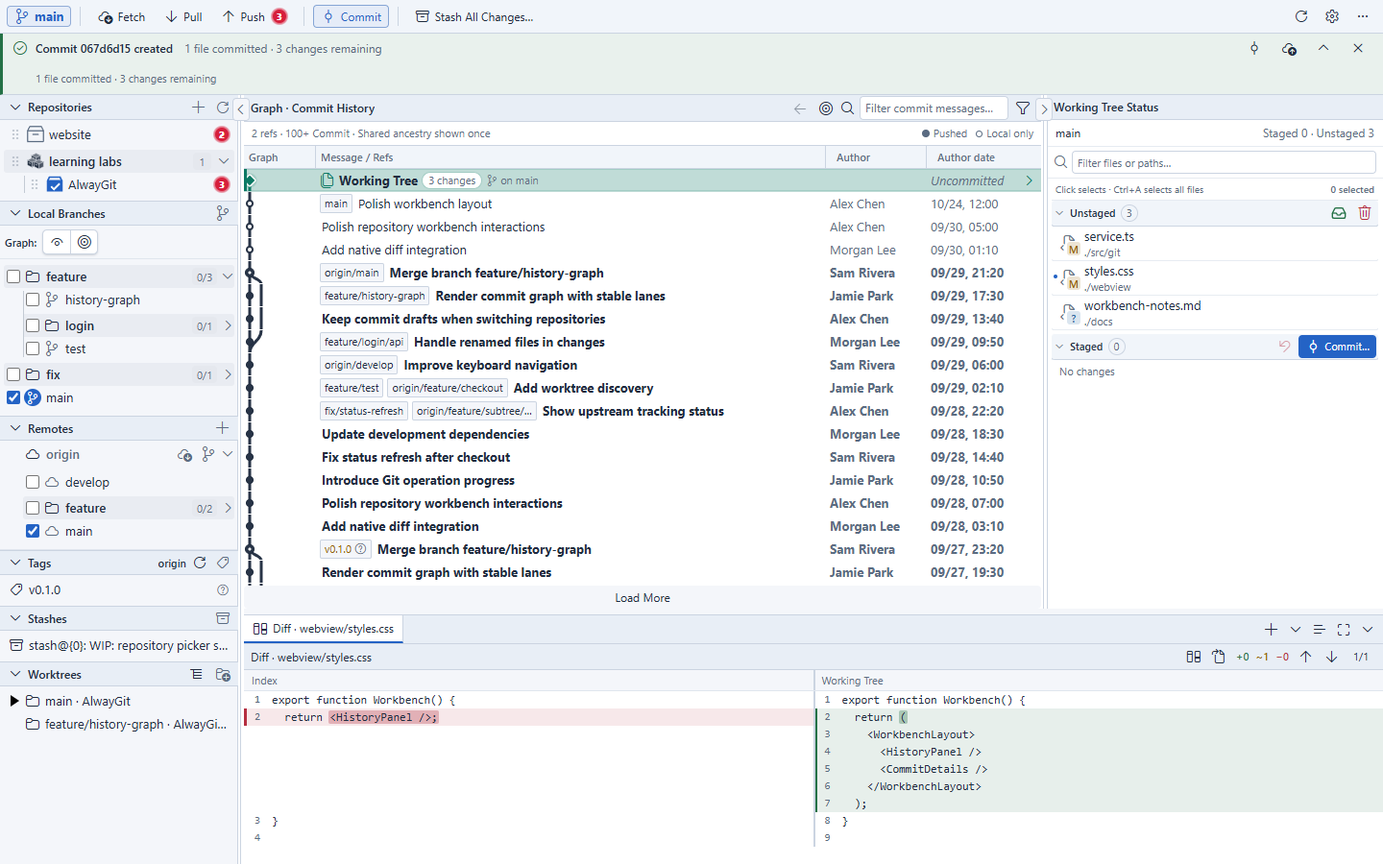
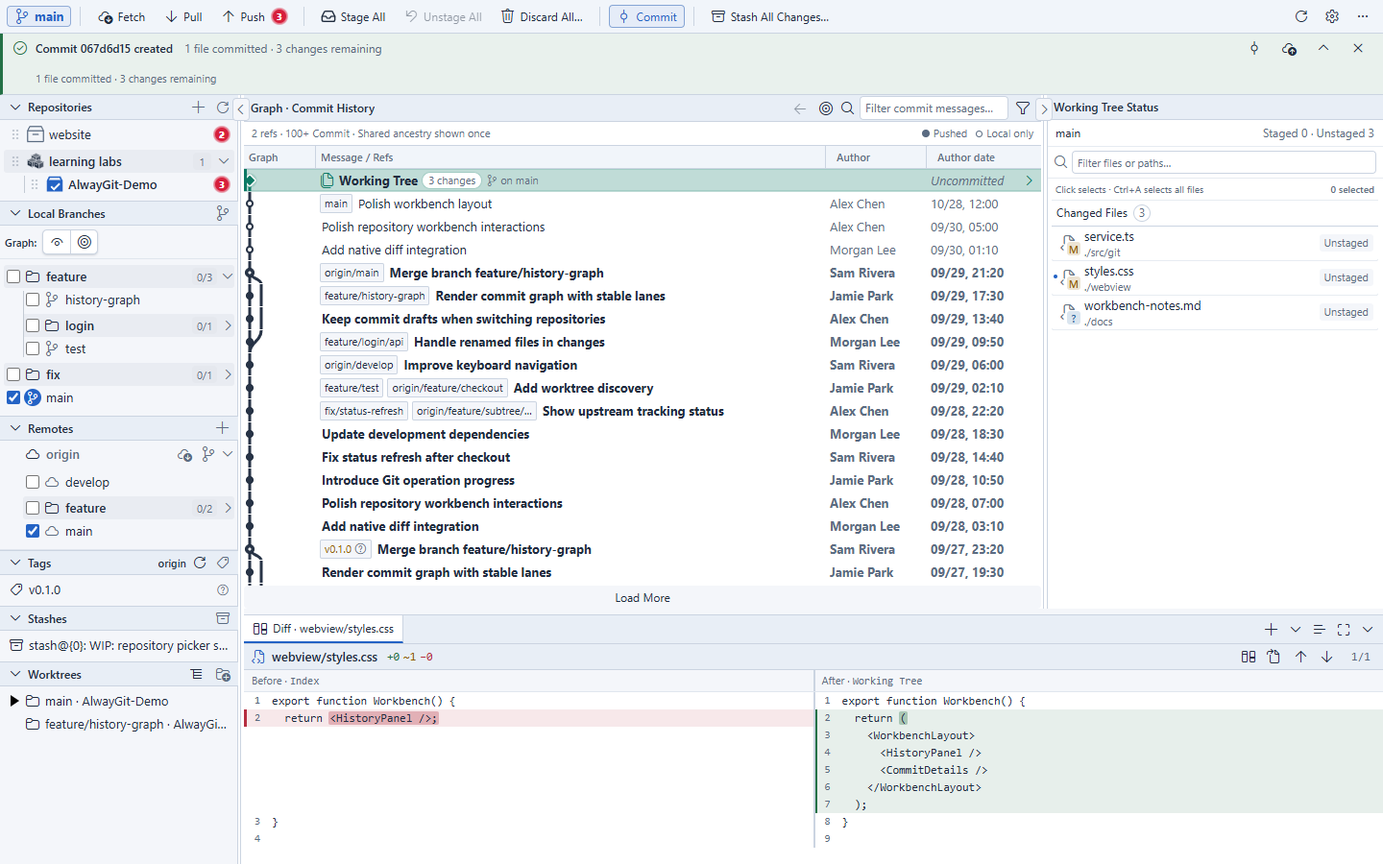
docs: 同步统一文件列表与近期界面的手册图文

diff --git a/docs/USER_MANUAL.en.md b/docs/USER_MANUAL.en.md
@@ -8,7 +8,7 @@ Select More actions → Help & Guide, with its question-mark icon, in the upper-
 
 <a id="screenshot-notes"></a>
 
-**About the screenshots:** Shared figures were captured on 2026-10-24 from the 1.8.0 source build. They show the actual Workbench components with an English interface, the default theme's white appearance on a light host, and sample repository data; the language page previews Chinese. The main sample repository is now named `AlwayGit-Demo`; the existing screenshots have not yet been updated and still show `AlwayGit` and the original sample paths. The repositories, authors, Commit IDs, history, and operation states are constructed demo data, not records from the real AlwayGit project. Sample RPC responses supply repository, Git-operation, and terminal states, so these images do not establish real-host validation of remotes, authentication, or native Git operations. The narrow sidebar figure demonstrates region navigation at that viewport size. Images exclude native VS Code chrome, native confirmation dialogs, and system folder pickers. The toolbar file action is now named Open File in VS Code; its icon position remains as shown in the older figures. Diff heading styles, statistics placement, and floating boundary notices follow the current instructions; older figures have not been refreshed. Your project names, paths, and Commit IDs may differ. See [Validation](VALIDATION.en.md#manual-screenshots) for the capture process and verification scope.
+**About the screenshots:** Both editions share the same images. Figures 03–07, 09, 11, 13–14, 18, 23, 29, 38, 40–47, and 49–50 were captured on 2026-10-28 from the 1.8.0 source build (UI baseline `67d3097`), reflecting the default unified list, current selection states, and Diff styles. Figure 49 explicitly demonstrates optional split mode; Figure 50 shows the navigation boundary notice. Other figures retain their 2026-10-24 source. Some still show the old sample name `AlwayGit`, original paths, and surrounding toolbar; the main sample repository is now `AlwayGit-Demo`. These differences do not change the dialog operations illustrated. Images show actual Workbench components with an English interface, the default theme on a light host, and sample data; the language page previews Chinese. Repository, author, Commit ID, history, Git-operation, and terminal states come from isolated sample RPC data, not real project records or validation of real remotes, authentication, Git, or terminal execution. The narrow sidebar figure demonstrates region navigation at that viewport size. Images exclude native VS Code chrome, native confirmations, and system folder pickers. Your names, paths, Commit IDs, and saved interface preferences may differ. See [Validation](VALIDATION.en.md#manual-screenshots) for the capture process and verification scope.
 
 ## Read by task
 
@@ -31,9 +31,9 @@ Select More actions → Help & Guide, with its question-mark icon, in the upper-
 Use a practice repository with existing Git history. Confirm the current branch and finish any active Git operation first. For installation, see [Install and launch](#section-01-02).
 
 1. Open the AlwayGit launch sidebar and select **Open Workbench**. Use **Add…** in Repositories to add a repository, then double-click it or press Enter to enter it.
-2. Edit and save a file in VS Code. Return to the workbench, select **Working Tree**, then select the file under Unstaged to inspect its Diff.
-3. Right-click the file you want to commit and choose **Stage**. Select it under Staged and check the actual content prepared for the commit.
-4. Select **Commit…** to the right of Unstage in the Staged heading (or Commit in the toolbar), enter a Commit Message in the dialog, then select **Commit**. Only Staged content is committed; other unstaged changes remain in the Working Tree.
+2. Edit and save a file in VS Code. Return to the workbench, select **Working Tree**, then select a file marked **Unstaged** in the default unified list to inspect its Diff.
+3. Right-click the file you want to commit and choose **Stage**. Find its **Staged** entry in the unified list and check the actual content prepared for the commit. A remaining Unstaged entry for the same file represents additional changes on disk.
+4. Select **Commit** in the top toolbar, enter a Commit Message in the dialog, then select **Commit**. Ordinary Commit selects all Staged files initially; you can deselect files. Other unstaged changes remain in the Working Tree. The optional split mode also provides **Commit…** in the Staged heading.
 5. Select **View Commit** in the result banner, or open the new commit in History. Verify its message, file list, and any remaining changes.
 
 **Result:** History contains a new commit with the Staged content you reviewed. To share your local commit, follow [Remote collaboration](#chapter-08) and Push it to a remote.
@@ -159,7 +159,7 @@ Help follows the Workbench language. Both manuals and their images are included 
 
 ## Working Tree and Commits
 
-Staged is the most important place to check before committing. A file appearing as both unstaged and staged is not a contradiction: the Index contains one version, while the file on disk has changed again since it was staged.
+Staged is the most important place to check before committing. The default unified list labels each entry Unstaged or Staged; split mode displays separate groups. A file appearing as both unstaged and staged is not a contradiction: the Index contains one version, while the file on disk has changed again since it was staged.
 
 | Status or group | Meaning | Recommended action |
 | --- | --- | --- |
@@ -173,11 +173,13 @@ Staged is the most important place to check before committing. A file appearing 
 
 ### Choose split or unified file lists
 
-Settings → Interface → File List uses the unified changed-files list by default and also offers the split list. The unified list places unstaged entries before staged entries and sorts each area by file name; conflicts come first. Each version has its own row and Diff. Stage All, Unstage All and Discard All in the top toolbar always operate on the complete repository, independently of filtering or selection. Discard All discards only unstaged changes and preserves staged content.
+Settings → Interface → File List uses the unified changed-files list by default and also offers the split list. This default applies when no display mode has been saved; existing split or unified preferences remain in effect until changed and applied here. The unified list places unstaged entries before staged entries and sorts each area by file name; conflicts come first. Each version has its own row and Diff. Stage All, Unstage All and Discard All in the top toolbar always operate on the complete repository, independently of filtering or selection. Discard All discards only unstaged changes and preserves staged content.
 
 Split-mode heading actions use the current file filter; unified-mode toolbar bulk actions always use the whole repository. Use file context menus for selected files. File spacing is separate from History row density.
 
-![Figure 05 File list settings with split and unified modes and independent file spacing](images/user-manual/figure-05.png)
+![Figure 05 File list settings with unified mode selected by default, optional split mode, and independent file spacing](images/user-manual/figure-05.png)
+
+![Figure 49 Optional split-mode file area with separate Unstaged and Staged groups and group-heading actions](images/user-manual/figure-49.png)
 
 <a id="section-03-01"></a>
 
@@ -185,7 +187,7 @@ Split-mode heading actions use the current file filter; unified-mode toolbar bul
 
 **Prerequisite:** You have saved your changes in the editor.
 
-1. Click Working Tree, then click the file in the appropriate group.
+1. Click Working Tree, then choose the file entry by its Unstaged or Staged label. In split mode, choose the file in the corresponding group.
 2. Check the file and comparison targets in the Diff title at the bottom. In particular, confirm whether you are viewing Staged or Unstaged changes.
 3. Use the previous and next arrows to review each change block, noting the counts of additions, modifications, and deletions.
 4. To edit the full contents of a text file, use Open File in VS Code to open the actual file in the current Working Tree. This also applies when viewing a historical Commit or comparing two Commits: the file belongs to the current checkout and may differ from the preview. Save it, then return to the workbench and check again. A missing file produces an explicit message; it is neither created nor replaced by a Diff view. Images and other binary files are view-only in the AlwayGit preview.
@@ -196,7 +198,7 @@ Split-mode heading actions use the current file filter; unified-mode toolbar bul
 
 **Troubleshooting:** If the content has not updated, first confirm that you saved it in the editor, then use Refresh. If the problem persists, check the output and error details.
 
-![Figure 07 Working Tree filtered by webview with an unstaged file and its Diff selected](images/user-manual/figure-07.png)
+![Figure 07 Default unified list filtered by webview, with an Unstaged file and its Before / After Diff sources](images/user-manual/figure-07.png)
 
 <a id="section-03-02"></a>
 
@@ -204,16 +206,16 @@ Split-mode heading actions use the current file filter; unified-mode toolbar bul
 
 **Prerequisite:** No unresolved conflicts remain, and you know which files should be included in the next commit.
 
-1. Click the target file under Unstaged. Use Ctrl/Cmd or Shift to select multiple files.
+1. Click the target entry marked Unstaged in the unified list, or enter the Unstaged group in split mode. Use Ctrl/Cmd or Shift to select multiple files.
 2. Right-click an already selected file and choose Stage. Right-clicking an unselected file first changes the selection to that file alone.
-3. Check the result under Staged. If you selected the wrong file, right-click it under Staged and choose Unstage.
-4. If you truly intend to act on the entire group, use Stage All or Unstage All in the group heading and verify the count in the confirmation.
+3. Select the Staged entry to check the result. If you selected the wrong file, right-click that entry and choose Unstage.
+4. For bulk actions in unified mode, use Stage All or Unstage All in the top toolbar; these always affect the complete repository. In split mode, use the corresponding group heading: without a filter it affects the whole group, and with a filter it affects matching files. Verify the count in the confirmation.
 
 **Result:** Staged contains only the changes needed for this commit. After Unstage, the changes remain in the Working Tree.
 
 **Act on a change block:** A compact 32px gutter between the Unstaged text Diff panes contains « to stage that Working Tree block into the Index. The left-side » opens a file/range-bound discard confirmation; confirming restores only that Working Tree block from the Index, preserving staged content and other blocks. Discarding a complete untracked addition deletes that file; a deleted file can be restored. Staged Diff uses » to restore that Index block from HEAD and unstage it. Line-number width follows the number of digits, without a reserved action column. Buttons anchor to actual changes; hover or keyboard focus shows only the action name; changes keep their red/green backgrounds without additional blue frames. Each contiguous change block is independent and matches navigation; nearby changes are no longer grouped by Git context. Arbitrary line selection is unavailable. Staging and unstaging preserve Working Tree bytes and other blocks. Recheck Staged after the action. Refresh expired previews; unsupported files, conversion filters, renames, and active Git operations use whole-file actions.
 
-**Caution:** File menus and group actions still operate on whole files. Search file names or relative paths below the Working Tree summary, ignoring case; use the clear icon to restore all files. In split mode, group actions apply to the entire group without a filter, or only matching paths with a filter. Tooltips and confirmations show the scope, independently of the current selection. Use a file’s context menu to act on selected items. Ctrl/Cmd+A selects only visible files. Filtering does not change the actual Index; Ordinary Commit selects all staged files by default; you may deselect files in the checklist.
+**Caution:** File menus and list bulk actions still operate on whole files. Filtering does not narrow the repository scope of the unified toolbar actions. Search file names or relative paths below the Working Tree summary, ignoring case; use the clear icon to restore all files. In split mode, group actions apply to the entire group without a filter, or only matching paths with a filter. Tooltips and confirmations show the scope, independently of the current selection. Use a file’s context menu to act on selected items. Ctrl/Cmd+A selects only visible files. Filtering does not change the actual Index; Ordinary Commit selects all staged files by default; you may deselect files in the checklist.
 
 <a id="section-03-03"></a>
 
@@ -237,7 +239,7 @@ Split-mode heading actions use the current file filter; unified-mode toolbar bul
 **Prerequisite:** At least one file is Staged, and you have prepared a commit message.
 
 1. Check each Staged file, including deletions and renames.
-2. Select Commit in the toolbar or Commit… in the Staged heading and enter a Commit Message in the dialog. Confirm the repository, branch, and file checklist (all staged files are selected by default; you may deselect files), then select Commit or press Ctrl/Cmd+Enter. Enter inserts a new line.
+2. Select Commit in the toolbar (split mode also offers Commit… in the Staged heading) and enter a Commit Message in the dialog. Confirm the repository, branch, and file checklist (all staged files are selected by default; you may deselect files), then select Commit or press Ctrl/Cmd+Enter. Enter inserts a new line.
 3. Click the new commit in History to verify the actual file list. Then return to Working Tree and check the remaining uncommitted changes.
 4. If Unstaged changes remain, continue editing or staging them for a separate commit.
 
@@ -284,9 +286,9 @@ In the unified list, Commit Selected… opens a checklist containing only the in
 
 **Prerequisite:** You have confirmed that you do not need the selected changes. Any content you need has been committed, saved in a Stash, or backed up elsewhere.
 
-1. Select the target files under Unstaged, right-click, and choose Discard….
+1. Select the target entries marked Unstaged, right-click, and choose Discard….
 2. Read the path list and discard explanation in the confirmation popover, checking each item. If a native VS Code Proceed confirmation follows, check again before continuing.
-3. Use Discard All… in the heading only when you intend to discard all Unstaged changes. Alternatively, right-click the graph's Working Tree node and choose Discard All Unstaged Changes… without opening the file list. Node actions ignore right-side path filters and selection.
+3. Use Discard All in the unified-mode top toolbar only when you intend to discard every Unstaged change in the repository. The split-mode Unstaged heading action affects the current filter matches. Alternatively, right-click the graph's Working Tree node and choose Discard All Unstaged Changes… without opening the file list. Node actions ignore right-side path filters and selection.
 4. After the operation, check the remaining Unstaged and Staged changes to confirm the scope of its effect.
 
 **Result:** The confirmed unstaged changes have been discarded. Content from the same file that was already in the Index should remain intact.
@@ -419,9 +421,11 @@ Pale red backgrounds and red stripes to the left of line numbers mark deletions;
 
 **Result:** Choose to inspect the entire Commit or the current file block by block. Adjacent changed lines form one contiguous block.
 
-**Caution:** Entire Commit includes files hidden by the path filter. The Diff title shows the actual path, and the file list identifies a hidden current file. Binary files and files without text change blocks are skipped but remain available for manual inspection. Read failures stop navigation and show an error. Text statistics and navigation cover the complete file, including changes after line 4000. Scroll to inspect all context. Resource limits produce an error rather than a partial comparison or a misleading zero-change count. Working Tree, Stash, and Commit comparisons still cycle within the current file.
+**Caution:** Entire Commit includes files hidden by the path filter. The Diff title shows the actual path, and the file list identifies a hidden current file. Binary files and files without text change blocks are skipped but remain available for manual inspection. Read failures stop navigation and show an error. Text statistics and navigation cover the complete file, including changes after line 4000. Scroll to inspect all context. Resource limits produce an error rather than a partial comparison or a misleading zero-change count. Working Tree, Stash, and Commit comparisons navigate within the current file, using the same notice-then-repeat boundary rule and immediate relocation for a single block.
 
 ![Figure 38 Diff settings with font, line height, code preview, and change navigation scope](images/user-manual/figure-38.png)
+
+![Figure 50 Floating notice at the first change: run Previous again to reach the last change in this Commit](images/user-manual/figure-50.png)
 
 <a id="file-history"></a>
 
@@ -972,7 +976,7 @@ Click list whitespace or press Esc to clear the blue selection while retaining a
 
 **Caution:** Groups organize the navigation only. They do not move directories on disk or combine the contents of different repositories.
 
-![Figure 06 The sample repository in learning labs (shown as AlwayGit in this older figure, now named AlwayGit-Demo) and the separate website repository entry](images/user-manual/figure-06.png)
+![Figure 06 AlwayGit-Demo in learning labs with its current-repository marker and blue action selection, plus the separate website repository entry](images/user-manual/figure-06.png)
 
 <a id="section-02-03"></a>
 
@@ -1107,7 +1111,7 @@ Double-click a terminal tab to rename it. The toolbar clears the display and off
 
 1. Click the gear in the upper-right corner to open settings.
 2. Choose a page in the General, Interface, Commit Graph, or Advanced category. The settings dialog keeps the same dimensions when switching categories. Long pages scroll in the right content area while the title and footer remain fixed. In smaller windows the dialog fits the available space, and category navigation scrolls independently.
-3. Interface → Text & density controls the interface font size and commit list density. Interface → File list controls split or unified display and file spacing. Interface → Diff groups the Diff font size, line height, row separators (off by default), and navigation scope with a code preview. Expand Detailed rules for navigation exceptions. Commit Graph → Display independently controls commit row separators and alternating row backgrounds, both off by default; selection, hover, and Working Tree indicators remain visible.
+3. Interface → Text & density controls the interface font size and commit list density. Interface → File list controls the default unified or optional split display and file spacing. Interface → Diff groups the Diff font size, line height, row separators (off by default), and navigation scope with a code preview. Expand Detailed rules for navigation exceptions. Commit Graph → Display independently controls commit row separators and alternating row backgrounds, both off by default; selection, hover, and Working Tree indicators remain visible.
 4. Click Apply to save. To discard unapplied changes, click Cancel, close settings, or press Esc.
 
 **Result:** Language, theme, colors, font sizes, density, shortcuts and reading preferences are saved in user settings and shared with other workbench windows in the same configuration environment. Cancel rolls back only this panel’s unapplied preview. Panel dimensions, browsing state and commit drafts are restored separately.

diff --git a/docs/VALIDATION.en.md b/docs/VALIDATION.en.md
@@ -71,7 +71,7 @@ On 2026-10-05, with user permission, real-window validation ran on local VS Code
 
 First identify affected operation scenarios. Changes to surrounding toolbars, icons, or spacing usually require only updated entry text and a screenshot-difference note. When screenshots really need updating, run `npm run build` once, then `node scripts/capture-manual.mjs`. The script uses a headless browser and real workbench components from the current build. Isolated sample fixtures answer every RPC; no Git, Shell, native editor, window action, or remote connection occurs. It fixes the default theme (a white interface following a light host), language, font size, viewport, time zone, and sample time. Each scenario has an independent browser context. Dialogs are cropped to their bounds for readable text; narrow-sidebar pictures demonstrate component adaptation and do not constitute real VS Code container acceptance.
 
-Previews go to ignored `artifacts/manual-capture/`. Use `--only=NN` to view one scenario or `--from=NN` to resume from a scenario; neither changes manual images. For a partial update, use `--only=NN`, inspect the result, and copy only the corresponding PNG to `docs/images/user-manual/`, retaining a clear operation region where possible. Do not copy everyday acceptance previews into the maintained directory. Only for an explicit user request or a dedicated manual redesign, use `node scripts/capture-manual.mjs --write` for full capture. Maintained images are replaced only after every scenario succeeds; partial capture cannot use `--write`. Scenario definitions live in this script; do not manually retain old image variants.
+Previews go to ignored `artifacts/manual-capture/`. Use `--only=NN` for one scenario, `--only=03,05,07` for several specific scenarios, or `--from=NN` to resume from a scenario; none changes manual images. Ordinary scenes leave the product's file-list default intact. Figure 49 explicitly uses split mode and captures the file-operation area; Figure 50 captures the Diff with its boundary notice. For a partial update, complete and inspect all selected scenes, then copy only the corresponding PNGs to `docs/images/user-manual/`, retaining clear operation regions where possible. Do not copy everyday acceptance previews into the maintained directory. Only for an explicit user request or a dedicated manual redesign, use `node scripts/capture-manual.mjs --write` for full capture. Maintained images are replaced only after every scenario succeeds; partial capture cannot use `--write`. Scenario definitions live in this script; do not manually retain old image variants.
 
 Both manuals share images, section anchors, and screenshot-source notes. New images must be referenced by both editions. When updating, check each affected image's actual entry point, object, count, direction, and accompanying text; delete invalid or unreferenced resources and retain real PNG encoding. Source notes record the actual capture date and source version. Partial replacements record new provenance by image number, retain the old source for other images, and note differences in surrounding UI. Demo feedback is not evidence of real Git or terminal execution. Native VS Code shell screenshots or host-behavior acceptance require separate visible-window permission under the project rules.
 
@@ -140,7 +140,7 @@ node scripts/package.mjs
 
 Packaging detects the current platform, passes `--target` to VSCE, and builds through `vscode:prepublish`; no repeated build is needed immediately beforehand. It passes `--allow-star-activation` to explicitly accept the existing `*` startup activation and avoid recurring manual confirmation; this neither optimizes startup performance nor changes activation timing. You may specify `node scripts/package.mjs --target linux-arm64`, but the target must match the build machine; this does not cross-compile node-pty. Linux requires glibc plus Python, make, and a C++ compiler; source builds use Node.js 24.
 
-The `.vscodeignore` release allowlist includes only the extension manifest/localization, README, icon, runtime programs, and Webview assets. Raw `docs/`, repository CI configuration, source maps, tests, and debug symbols are excluded. Complete bilingual offline manuals and all 40 screenshots remain in the Webview build, without a second copy of the original documentation images. Packaging generates a temporary README with relative documentation and language links rewritten to online GitHub `main` addresses. VSCE uses this copy while preserving the existing statistics SVG; the copy is deleted at completion. Repository READMEs retain relative links.
+The `.vscodeignore` release allowlist includes only the extension manifest/localization, README, icon, runtime programs, and Webview assets. Raw `docs/`, repository CI configuration, source maps, tests, and debug symbols are excluded. Complete bilingual offline manuals and all maintained screenshots remain in the Webview build, without a second copy of the original documentation images. Packaging generates a temporary README with relative documentation and language links rewritten to online GitHub `main` addresses. VSCE uses this copy while preserving the existing statistics SVG; the copy is deleted at completion. Repository READMEs retain relative links.
 
 Builds clean old PTY directories and copy only node-pty runtime JS, licenses, and one complete native layout for the current target. A complete `build/Release` takes priority; otherwise target prebuilds are used, with either layout normalized to `prebuilds/<target>`. Windows retains ConPTY/WinPTY compatibility paths, helper processes, and Workers; Linux/macOS retain `pty.node` and `spawn-helper`. PDBs, other architectures, tests, type declarations, build scripts, and duplicate third-party binaries are excluded. After packaging, before replacing the fixed package, `verify-package.mjs` rejects unexpected files, duplicate entries, and missing required files, then extracts and checks extension identity, version, target platform, workspace host, and askpass execution permissions. It runs a real terminal lifecycle check in a temporary directory without relying on source node_modules. Only success replaces `artifacts/alwaygit.vsix`; the previous `artifacts/alwaygit-previous.vsix` and `artifacts/alwaygit-<版本>-<平台>.vsix` (version/platform placeholders) are retained. Failure preserves the original fixed package. Verification temporary directories are deleted at completion.
 
@@ -262,6 +262,7 @@ The table retains checks actually performed for different versions. Old results 
 
 | Evidence scope | Date / version | Recorded results and limitations |
 | --- | --- | --- |
+| Manual refresh for default unified lists and recent UI changes | 2026-10-28 / source 1.8.0 (UI baseline 67d3097) | Recaptured 21 affected figures and added two operation-region images for optional split mode and the Diff boundary notice. Both manuals and offline help share 50 PNGs; the README panorama updates through its existing image reference. Updated default-list workflows, Stage/Unstage/Discard/Commit entries and filter scopes, and corrected the English specification default. The other 27 figures retain their original source. Ordinary capture scenes no longer override the product default; multiple scenes can be selected together. Help acceptance now waits for the actual file row to support unified mode. Reviewed all 23 captured images. Three help-content tests, capture/help script syntax, the initial production build, final Webview build, and headless Help checks passed, including every image in both languages, offline CSP, chapter/task navigation, search, narrow layouts, and focus restoration. Checked 281 local file/image/anchor references across 12 Markdown files and diff formatting. Sample RPC figures do not establish real Git, remote authentication, or native-host acceptance. No full suite, visible-window tests, VSIX packaging, installation, or remote push |
 | Bilingual manuals, task navigation, and complete screenshot refresh | 2026-10-24 / source 1.8.0 | Recaptured the existing 40 figures and added eight for advanced-search drafts, file history, full commit trees, branch comparison, Reflog, Worktree overview, interactive Rebase, and Git LFS. Both manuals and offline help share all 48 PNGs; the README overview is current and statistics cards are at the bottom. Types, 1847 bilingual resources, three help-content tests, six release-statistics tests, the final production build, and headless Help checks passed. The Help checks decode every image in both languages under offline CSP and cover chapter/task navigation, search, narrow layouts, and focus return. The old focus assertion ran while compact navigation hid its invoking region; restoring the original viewport fixed the test without changing product behavior. Checked 277 local links/images/anchors across 12 Markdown documents and diff formatting. Figures use actual UI components with isolated sample RPC state, without establishing real Git, remote authentication, or native VS Code container acceptance. No local full suite, VSIX packaging, or extension installation; release checks and platform packages are validated by the Tag workflow |
 | Hunk staging, branch comparison, Reflog, interactive Rebase, and Worktree overview | 2026-10-18 / source 1.7.0 | Types, 1685 bilingual resources, and focused real-Git/protocol/document-preview/help tests passed. Real Git covers patch/index isolation, fixed-reference comparisons, recovery branches, Worktree status, and all six Rebase actions, conflict continue/abort, empty commits, and hook failures. Independent extension compilation and the Webview production build passed; eight headless suites passed: the five new features, File History, Diff, and Refresh. The old Diff assertion conflicted with existing same-file statistics preservation; updated assertions passed alongside Refresh. Checked 219 local links/images/anchors across 12 Markdown files and diff formatting. Full build remains blocked by the host’s incomplete node-pty linux-arm64 runtime. No dependency installation, full suite, desktop acceptance, packaging, or extension installation; actual Windows/Electron and signing environments remain unverified |
 | File history and file-filtered graph | 2026-10-18 / source 1.6.0 | Types, 1563 bilingual resources, extension/terminal/launcher code compilation, and frontend build passed; 125 focused file-history/state/helper/help checks passed, plus protocol, graph-row, and history-item checks. Real Git covers 151 file records across batches/pages, rename/merge sides, deletion/recreation, pathname reuse, old-path anchors, unusual paths, remote reachability, and read-only cancellation. Headless file-history/files/help suites passed; Back and HEAD location passed separately. The full History suite remains blocked by the existing Demo Detached HEAD permission check; bulk remote-deletion testing requires Git 2.46 while this host has 2.43.0. After integrating remote build validation, full build stopped on the host’s incomplete node-pty linux-arm64 runtime; code and frontend compiled separately with existing dependencies. No full suite, desktop acceptance, packaging, or installation |

diff --git a/docs/WORKBENCH_SPEC.en.md b/docs/WORKBENCH_SPEC.en.md
@@ -34,7 +34,7 @@ Settings is an approximately 760 px dialog with General / Interface / Graph / Ad
 
 Interface type supports 12–16 px, Diff 11–18 px (default 12), and history rows 22/24/28 px. File padding defaults to 1 px per side, with 0/1/3/5 px presets and 0–8 px custom values. File names use 1.4 line height; parent paths use 11 px type with 1.2 line height, separated by a 1 px gap without vertical shrinking. At 13 px, default two-line file rows are 36 px across details, comparisons, and Working Tree. Wrapped paths and larger type grow rows. Legacy sessions receive new spacing defaults while keeping other settings. Diff line height defaults to 18 px, offers 18/20/22/24 px presets and 16–36 px custom values, and is at least font size + 4 px. Larger fonts increase minima; virtual rows remeasure while preserving the top reading position.
 
-Changes preview immediately. Apply saves without restarting; Cancel, Close, Escape, or backdrop restore the applied baseline. Background refresh during preview saves applied settings rather than draft preferences. Repository selection, commit drafts, and files are unaffected. Split lists are the default. Unified lists order Conflicts, Unstaged, Staged, then filenames/full paths; two versions of one path remain separate entries. Unified toolbar Stage All, Unstage All, and Discard All sit between Push and Commit and always target the complete repository, regardless of filters or selection; Discard All discards only unstaged content. Split mode keeps section actions. Current-repository refresh is fixed on the right.
+Changes preview immediately. Apply saves without restarting; Cancel, Close, Escape, or backdrop restore the applied baseline. Background refresh during preview saves applied settings rather than draft preferences. Repository selection, commit drafts, and files are unaffected. Unified lists are the default when no display preference has been saved; existing split or unified preferences remain in effect. Unified lists order Conflicts, Unstaged, Staged, then filenames/full paths; two versions of one path remain separate entries. Unified toolbar Stage All, Unstage All, and Discard All sit between Push and Commit and always target the complete repository, regardless of filters or selection; Discard All discards only unstaged content. Split mode keeps section actions. Current-repository refresh is fixed on the right.
 
 Graph provides vivid 12 colors by default, distinct 8, and extended 16, adapted to light/dark surfaces. Presets are starting points: edit HEX/colors, use 4–16 entries, restore a preset, and independently set light/dark mainline colors. Actual fork/parallel/merge previews indicate whether colors reach 3:1 contrast. The remote default branch, falling back to `main`/`master`, uses a thick mainline; HEAD remains ordinary, identified by branch and accessibility semantics. Colors belong to history paths rather than columns: first parents inherit, existing parent paths keep colors, new paths prefer free colors then perceptual separation in the active palette. Finished paths free slots; exhausted palettes avoid matching adjacent paths where possible but cannot guarantee distinct colors for arbitrarily many active paths.
 
